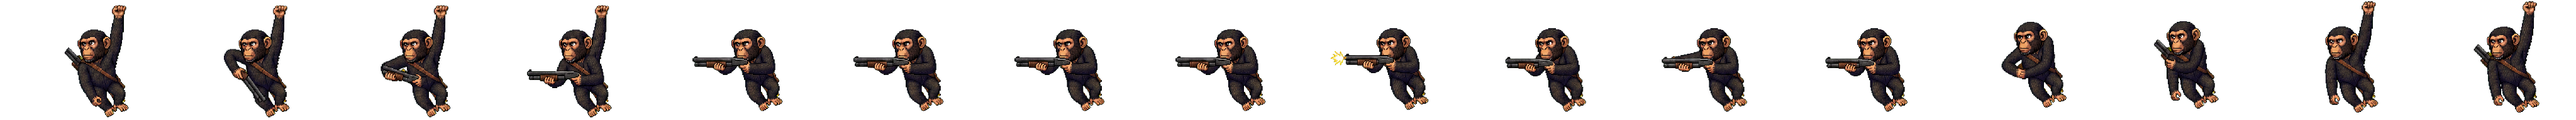
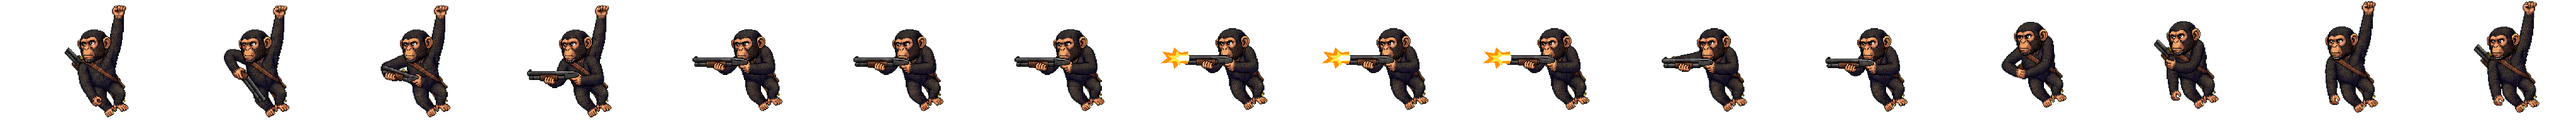
Fix chimp firing animation and remove cooldown

Changed region(s): [[0.4375, 0.3125, 0.5312, 0.9062], [0.5625, 0.25, 0.625, 0.9062]]

diff --git a/app/page.tsx b/app/page.tsx
@@ -1319,13 +1319,11 @@ function DashboardChimp({
   const callbackRef = useRef(onPlacementChange);
   const draggingRef = useRef(false);
   const catPlatformRef = useRef("");
-  const cooldownRef = useRef(0);
   const fireTimersRef = useRef<number[]>([]);
   const poseRef = useRef<"hang" | "fire">("hang");
   const [pose, setPose] = useState<"hang" | "fire">("hang");
   const [position, setPosition] = useState({ x: -200, y: -200 });
   const [dragging, setDragging] = useState(false);
-  const [shotVisible, setShotVisible] = useState(false);
 
   callbackRef.current = onPlacementChange;
 
@@ -1425,25 +1423,20 @@ function DashboardChimp({
         document.documentElement.dataset.catPlatform || catPlatformRef.current;
       if (
         currentCatPlatform !== placement.widgetId ||
-        poseRef.current === "fire" ||
-        Date.now() < cooldownRef.current
+        poseRef.current === "fire"
       )
         return;
-      cooldownRef.current = Date.now() + 8000;
       showPose("fire");
-      setShotVisible(false);
       fireTimersRef.current.forEach(window.clearTimeout);
       fireTimersRef.current = [
-        window.setTimeout(() => setShotVisible(true), 820),
         window.setTimeout(() => {
           window.dispatchEvent(
             new CustomEvent("dashboard:cat-click", {
               detail: { excludeIds: [placement.widgetId] },
             }),
           );
-        }, 980),
-        window.setTimeout(() => setShotVisible(false), 1420),
-        window.setTimeout(() => showPose("hang"), 2100),
+        }, 1180),
+        window.setTimeout(() => showPose("hang"), 2200),
       ];
     };
     const catPlatformChanged = (event: Event) => {
@@ -1482,7 +1475,6 @@ function DashboardChimp({
           backgroundImage: `url(${import.meta.env.BASE_URL}assets/${pose === "fire" ? "pixel-chimp-fire.webp" : "pixel-chimp-hang.webp"})`,
         }}
       />
-      {shotVisible && <i className="chimp-shot" aria-hidden="true" />}
     </div>
   );
 }

diff --git a/app/globals.css b/app/globals.css
@@ -1340,35 +1340,6 @@ button {
 .chimp-fire > span {
   animation: chimp-frames 2.1s steps(15) 1 both;
 }
-.chimp-shot {
-  position: absolute;
-  top: 46px;
-  width: 82px;
-  height: 3px;
-  border-radius: 999px;
-  background: linear-gradient(90deg, transparent, #ffe58a, #fff);
-  box-shadow: 0 0 9px #ffcc66dd, 0 0 16px #ff8a00aa;
-  animation: chimp-shot 420ms ease-out both;
-}
-.chimp-shot::before {
-  content: "";
-  position: absolute;
-  right: -11px;
-  top: 50%;
-  width: 24px;
-  height: 24px;
-  transform: translateY(-50%) rotate(45deg);
-  background: radial-gradient(circle, #fff 0 15%, #ffe36b 16% 38%, #ff8a00 39% 58%, transparent 60%);
-  clip-path: polygon(50% 0, 64% 34%, 100% 18%, 76% 50%, 100% 82%, 64% 66%, 50% 100%, 36% 66%, 0 82%, 24% 50%, 0 18%, 36% 34%);
-  filter: drop-shadow(0 0 7px #ffb000);
-}
-.chimp-side-right .chimp-shot {
-  right: 92px;
-}
-.chimp-side-left .chimp-shot {
-  left: 92px;
-  transform: scaleX(-1);
-}
 @keyframes chimp-frames {
   from {
     background-position-x: 0;
@@ -1377,23 +1348,12 @@ button {
     background-position-x: 100%;
   }
 }
-@keyframes chimp-shot {
-  from {
-    opacity: 1;
-    scale: 0.18 1;
-  }
-  to {
-    opacity: 0;
-    scale: 1 0.4;
-  }
-}
 @media (prefers-reduced-motion: reduce) {
   .dashboard-cat > span {
     animation: none !important;
     background-position: 0 0;
   }
-  .dashboard-chimp > span,
-  .chimp-shot {
+  .dashboard-chimp > span {
     animation: none !important;
   }
 }

diff --git a/outputs/pixel-chimp-v1/prepare_sprites.py b/outputs/pixel-chimp-v1/prepare_sprites.py
@@ -1,6 +1,6 @@
 from pathlib import Path
 
-from PIL import Image
+from PIL import Image, ImageDraw
 
 
 ROOT = Path(__file__).parent
@@ -40,10 +40,32 @@ def build_atlas(source_path: Path) -> None:
             preview_frame = Image.new("RGBA", (frame_width, CELL))
             preview_frame.alpha_composite(frame, (left_padding, 0))
             frames.append(preview_frame)
-            atlas.alpha_composite(
-                preview_frame,
-                (index * frame_width, 0),
-            )
+
+    if source_path.stem == "fire-v2":
+        # Keep the actual muzzle flash inside the sprite animation for three
+        # consecutive frames so it stays readable at normal playback speed.
+        firing_frame = frames[8].copy()
+        draw = ImageDraw.Draw(firing_frame)
+        draw.polygon(
+            [(96, 82), (83, 84), (75, 76), (72, 85), (56, 82),
+             (64, 92), (54, 101), (72, 99), (75, 109), (84, 100), (96, 102)],
+            fill=(255, 145, 0, 255),
+        )
+        draw.polygon(
+            [(97, 86), (84, 87), (79, 82), (77, 89), (65, 88),
+             (72, 94), (64, 99), (78, 97), (81, 103), (86, 97), (97, 98)],
+            fill=(255, 230, 72, 255),
+        )
+        draw.polygon(
+            [(98, 89), (84, 89), (78, 93), (84, 97), (98, 96)],
+            fill=(255, 255, 238, 255),
+        )
+        frames[7] = firing_frame.copy()
+        frames[8] = firing_frame.copy()
+        frames[9] = firing_frame.copy()
+
+    for index, frame in enumerate(frames):
+        atlas.alpha_composite(frame, (index * frame_width, 0))
 
     OUTPUT.mkdir(exist_ok=True)
     atlas.save(OUTPUT / f"{source_path.stem}.png", optimize=True)
